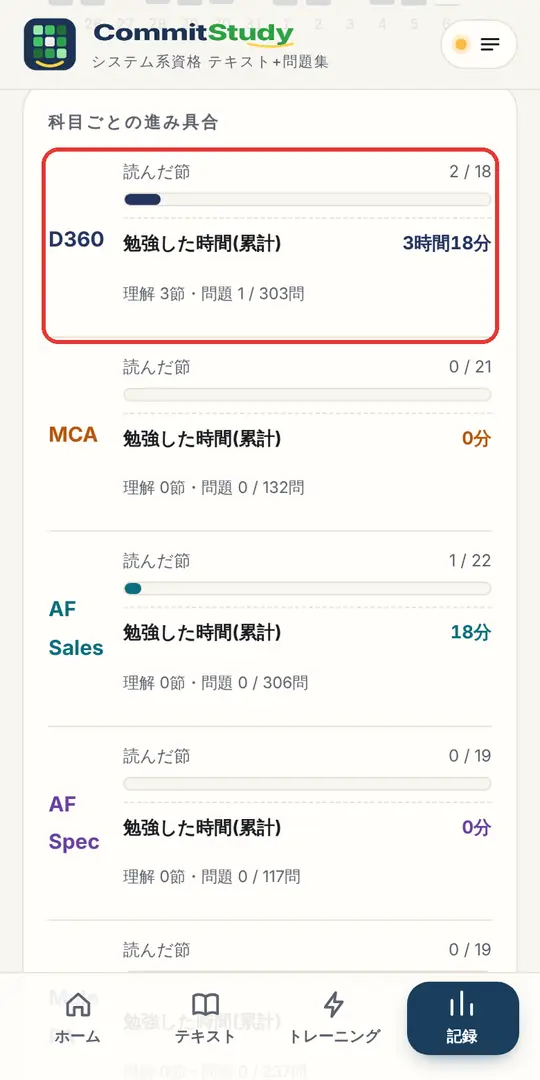
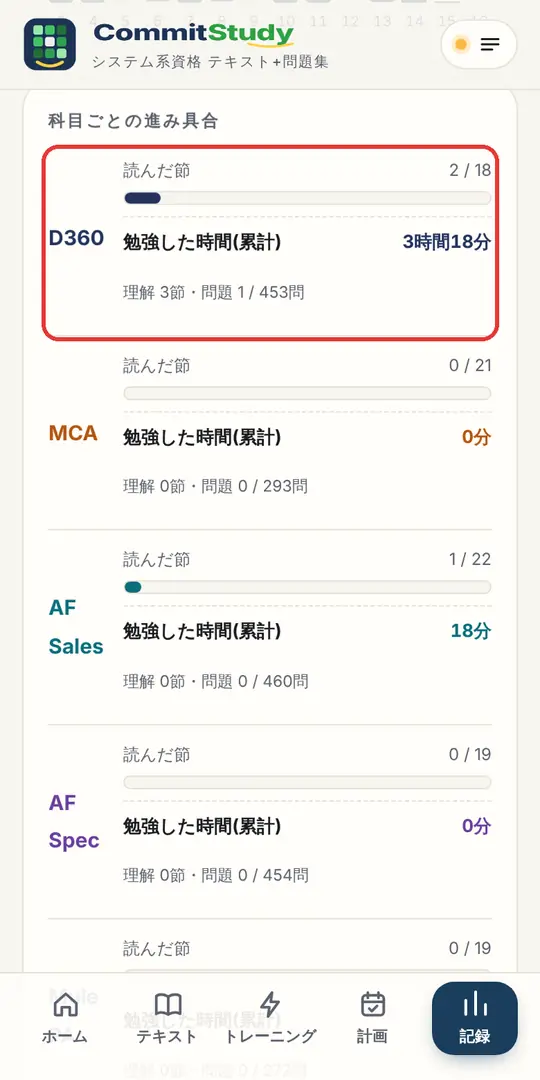
計画機能(作業中): 使い方の画面写真の撮り直しなど
Claude-Session: https://claude.ai/code/session_01Jp4Dyyf8t6QTx62ivKWhuS

diff --git a/commitstudy/plan/plan.js b/commitstudy/plan/plan.js
@@ -32,6 +32,7 @@ function md(s){var d=pd(s);return (d.getMonth()+1)+"/"+d.getDate()}
 function mdw(s){return md(s)+"("+WD[dow(s)]+")"}
 function ymdJ(s){var d=pd(s);return d.getFullYear()+"年"+(d.getMonth()+1)+"月"+d.getDate()+"日"}
 function K(m){m=Math.max(0,Math.round(m));var h=Math.floor(m/60),r=m%60;return h?h+"時間"+(r?r+"分":""):r+"分"}
+function KS(m){m=Math.max(0,Math.round(m));return m<60?m+"分":Math.floor(m/60)+":"+p2(m%60)}
 function HR(h){return (Math.round(h*10)/10).toLocaleString("ja-JP")+"時間"}
 function clamp(v,a,b){v=+v;if(!isFinite(v))v=a;return Math.max(a,Math.min(b,v))}
 function LSj(k,d){try{var v=JSON.parse(localStorage.getItem(k)||"null");return v==null?d:v}catch(e){return d}}
@@ -225,8 +226,8 @@ function stripHTML(R){var T=R.today,st=wk(T),cells='',max=1,map={};R.days.forEac
   var tg=LSj(TGK,{});if(!obj(tg))tg={};var exams={};R.list.forEach(function(x){if(x.state!=="fin")(exams[x.P.exam]=exams[x.P.exam]||[]).push(x)});
   for(var i=0;i<14;i++){var d=add(st,i),c=map[d],cls=d===T?" now":d<T?" past":"",inner='',lab='';
     if(d<T){var a=0;R.list.forEach(function(x){if(x.state!=="fin")a+=(x.st.days[d]||0)/60});var g=0;if(obj(tg[d]))Object.keys(tg[d]).forEach(function(k){g+=+tg[d][k]||0});
-      lab=a>=1?K(a):'—';if(g>0&&a>=g)cls+=" met";inner='<i class="act" style="height:'+Math.min(100,Math.round(a/Math.max(max,g,1)*100))+'%"></i>'}
-    else if(c){lab=c.tot>=1?K(c.tot):'休み';inner=c.parts.map(function(p){return '<i class="pc" style="'+cv(p.x.s.id)+';height:'+Math.max(4,Math.round(p.m/max*100))+'%"></i>'}).join("")}
+      lab=a>=1?KS(a):'—';if(g>0&&a>=g)cls+=" met";inner='<i class="act" style="height:'+Math.min(100,Math.round(a/Math.max(max,g,1)*100))+'%"></i>'}
+    else if(c){lab=c.tot>=1?KS(c.tot):'休み';inner=c.parts.map(function(p){return '<i class="pc" style="'+cv(p.x.s.id)+';height:'+Math.max(4,Math.round(p.m/max*100))+'%"></i>'}).join("")}
     else lab='';
     var ex=exams[d]?'<em class="ex pc" style="'+cv(exams[d][0].s.id)+'">試験</em>':'';
     cells+='<li class="'+cls.trim()+'"><span class="dw">'+WD[dow(d)]+'</span><span class="dt">'+pd(d).getDate()+'</span><div class="cb">'+inner+'</div><small>'+lab+'</small>'+ex+'</li>'}
@@ -234,13 +235,13 @@ function stripHTML(R){var T=R.today,st=wk(T),cells='',max=1,map={};R.days.forEac
 function bar(lbl,now,tot,exp,unit){var r=tot>0?Math.min(100,now/tot*100):0,e=tot>0&&exp!=null?Math.min(100,exp/tot*100):null;
   return '<div class="pb"><div class="pbh"><span>'+lbl+'</span><span>'+now+(tot?' / '+tot:'')+unit+'</span></div><div class="pbb"><i style="width:'+r.toFixed(1)+'%"></i>'+(e!=null&&e>0.5?'<b style="left:'+e.toFixed(1)+'%" title="予定ではここまで"></b>':'')+'</div></div>'}
 function planHTML(x,R){var P=x.P,s=x.s,h='',open=PG.open[P.id];
-  h+='<section class="bx pl-card pc" style="'+cv(s.id)+'" data-pid="'+P.id+'"><div class="pc-h"><b class="sj">'+esc(s.short)+'</b><div><h3>'+esc(s.title)+'</h3><p>'+ymdJ(P.exam)+'('+WD[dow(P.exam)]+') <span class="st'+(P.fixed?' fx':'')+'">'+(P.fixed?'申込済み':'予定')+'</span></p></div>'+
+  h+='<section class="bx pl-card pc" style="'+cv(s.id)+'" data-pid="'+P.id+'"><div class="plc-h"><b class="sj">'+esc(s.short)+'</b><div><h3>'+esc(s.title)+'</h3><p>'+ymdJ(P.exam)+'('+WD[dow(P.exam)]+') <span class="st'+(P.fixed?' fx':'')+'">'+(P.fixed?'申込済み':'予定')+'</span></p></div>'+
     '<div class="cd">'+(x.state==="exam"?'<b>今日</b>':'<small>あと</small><b>'+x.left+'</b><small>日</small>')+'</div></div>';
   if(x.state==="on"||x.state==="wait"){var pc=PACE[x.pace]||PACE.ok;
-    h+='<p class="pc-p">'+paceChip(x)+'<span>'+pc[1]+'</span></p>';
+    h+='<p class="plc-p">'+paceChip(x)+'<span>'+pc[1]+'</span></p>';
     var hn=Math.round((x.doneH+x.todaySec/3600)*10)/10;
     h+='<div class="pbs">'+bar("読んだ節",x.nRead,x.secsN,x.exp>0?x.eR:null,"節")+bar("解いた問題",x.ans,x.qn,x.exp>0?x.eQ:null,"問")+bar("勉強時間",hn,P.goalH,x.exp>0?x.eH:null,"時間")+'</div>'+
-      '<p class="bx-s pc-n">'+(x.state==="wait"?md(P.start)+' から開始・':'')+'残り '+HR(x.remainH)+'・1日あたり約 '+K(x.needPerDay)+(x.rv?'・総復習は '+md(x.revStart)+' から':'')+(x.exp>0?'・目盛りは予定ではここまで':'')+'</p>';
+      '<p class="bx-s plc-n">'+(x.state==="wait"?md(P.start)+' から開始・':'')+'残り '+HR(x.remainH)+'・1日あたり約 '+K(x.needPerDay)+(x.rv?'・総復習は '+md(x.revStart)+' から':'')+(x.exp>0?'・目盛りは予定ではここまで':'')+'</p>';
     h+='<div class="pf-btns"><button type="button" class="bx-go" data-act="weeks" aria-expanded="'+(open?"true":"false")+'">'+(open?'週ごとの計画を閉じる':'週ごとの計画')+'</button><button type="button" class="bx-go" data-act="edit">変更・削除</button></div>';
     if(open)h+=weeksHTML(x,R)}
   else h+='<div class="pf-btns"><button type="button" class="bx-go" data-act="edit">変更・削除</button></div>';

diff --git a/commitstudy/plan/plan.css b/commitstudy/plan/plan.css
@@ -62,15 +62,15 @@
 /* 計画のカード */
 .pl-card{border-top:5px solid var(--c);scroll-margin-top:90px;transition:box-shadow .4s}
 .pl-card.here{box-shadow:0 0 0 3px var(--sun)}
-.pc-h{display:grid;grid-template-columns:auto minmax(0,1fr) auto;gap:10px;align-items:center}
-.pc-h h3{margin:0;font-size:16px;line-height:1.4;overflow-wrap:anywhere}
-.pc-h p{margin:2px 0 0;font-size:12.5px;color:var(--sub);display:flex;flex-wrap:wrap;align-items:center;gap:4px 6px}
-.pc-h .st{font-size:11px;font-weight:800;border-radius:999px;padding:1px 8px;background:var(--bg);border:1px dashed var(--hair);color:var(--sub)}
-.pc-h .st.fx{border:1px solid var(--c);color:var(--c);background:var(--cs)}
-.pc-h .cd{text-align:right;line-height:1.1;white-space:nowrap}
-.pc-h .cd b{font-size:26px;font-weight:800;color:var(--c);font-variant-numeric:tabular-nums}
-.pc-h .cd small{font-size:11px;color:var(--sub);font-weight:700}
-.pc-p{margin:0;display:flex;align-items:flex-start;gap:8px;font-size:13px;color:var(--sub);line-height:1.6}
+.plc-h{display:grid;grid-template-columns:auto minmax(0,1fr) auto;gap:10px;align-items:center}
+.plc-h h3{margin:0;font-size:16px;line-height:1.4;overflow-wrap:anywhere}
+.plc-h p{margin:2px 0 0;font-size:12.5px;color:var(--sub);display:flex;flex-wrap:wrap;align-items:center;gap:4px 6px}
+.plc-h .st{font-size:11px;font-weight:800;border-radius:999px;padding:1px 8px;background:var(--bg);border:1px dashed var(--hair);color:var(--sub)}
+.plc-h .st.fx{border:1px solid var(--c);color:var(--c);background:var(--cs)}
+.plc-h .cd{text-align:right;line-height:1.1;white-space:nowrap}
+.plc-h .cd b{font-size:26px;font-weight:800;color:var(--c);font-variant-numeric:tabular-nums}
+.plc-h .cd small{font-size:11px;color:var(--sub);font-weight:700}
+.plc-p{margin:0;display:flex;align-items:flex-start;gap:8px;font-size:13px;color:var(--sub);line-height:1.6}
 .pace{flex:none;display:inline-block;border-radius:999px;padding:2px 10px;font-size:12.5px;font-weight:800;background:var(--bg);color:var(--ink);white-space:nowrap}
 .pace.ahead,.pace.ok,.pace.done{background:color-mix(in srgb,var(--ok) 18%,var(--paper));color:var(--ok)}
 .pace.slow{background:var(--sun-soft);color:var(--ink)}
@@ -82,7 +82,7 @@
 .pbb{position:relative;height:9px;border-radius:9px;background:var(--bg);border:1px solid var(--line)}
 .pbb i{display:block;height:100%;border-radius:9px;background:var(--c);transition:width .8s var(--ease)}
 .pbb b{position:absolute;top:-4px;bottom:-4px;width:3px;margin-left:-1.5px;border-radius:2px;background:var(--ink);opacity:.55}
-.pc-n{line-height:1.7}
+.plc-n{line-height:1.7}
 .wk-list{list-style:none;margin:0;padding:0;display:grid;gap:6px}
 .wk-list li{border-radius:12px;padding:8px 12px;background:var(--bg);font-size:13.5px}
 .wk-list li.cur{box-shadow:0 0 0 2px var(--sun)}

diff --git a/commitstudy/guide/run2.js b/commitstudy/guide/run2.js
@@ -9,7 +9,7 @@ await p.addInitScript(()=>{addEventListener('DOMContentLoaded',()=>{const st=doc
 await p.go('/');await p.evaluate(()=>scrollTo(0,0));await shot('home',['.tabbar']);
 await p.evaluate(()=>{const h=[...document.querySelectorAll('h2')].find(x=>/きょうの一歩/.test(x.textContent));h&&h.scrollIntoView({block:'start'});scrollBy(0,-80)});await shot('home2',['#bx-letter','#bx-cont']);
 await p.go('/plan/');await p.evaluate(()=>{document.querySelector('.pl-today').scrollIntoView({block:'start'});scrollBy(0,-70)});await shot('plan',['.pl-today .td-list>li']);
-await p.click('.pl-card [data-act="weeks"]');await p.waitForTimeout(400);await p.evaluate(()=>{document.querySelector('.pl-card').scrollIntoView({block:'start'});scrollBy(0,-70)});await shot('plan2',['.pl-card .pc-p ~~ .pl-card .pbs']);
+await p.click('.pl-card [data-act="weeks"]');await p.waitForTimeout(400);await p.evaluate(()=>{document.querySelector('.pl-card').scrollIntoView({block:'start'});scrollBy(0,-70)});await shot('plan2',['.pl-card .plc-p ~~ .pl-card .pbs']);
 await p.go('/texts/');await p.evaluate(()=>{document.querySelector('#groups').scrollIntoView({block:'start'});scrollBy(0,-80)});await shot('texts',['#t-d360 .acts']);
 await p.go('/d360/');await p.evaluate(()=>localStorage.setItem('sr-d360-view','text'));await p.go('/d360/#f-stream',5500);
 await p.evaluate(()=>{const e=document.getElementById('f-stream');e.scrollIntoView({block:'start'});scrollBy(0,-70)});await shot('text',['#f-stream .co.talk']);
